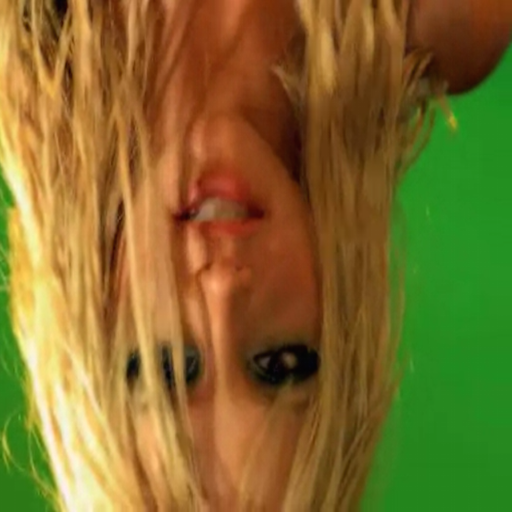
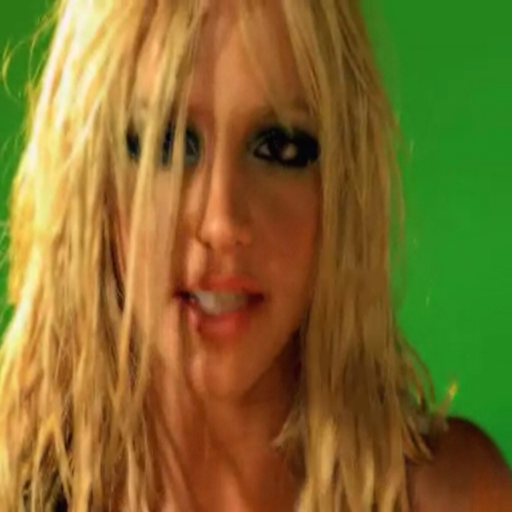
support new input options (filter, wrap, vflip and surge)

diff --git a/shadertoy/ShaderCanvasViewController.m b/shadertoy/ShaderCanvasViewController.m
@@ -50,7 +50,8 @@ const GLubyte Indices[] = {
     float *_channelTime;
     float *_channelResolution;
     GLKTextureInfo *_channelTextureInfo[4];
-    BOOL _channelTextureUseNearest[4];
+    ShaderInputFilterMode _channelTextureFilterMode[4];
+    ShaderInputWrapMode _channelTextureWrapMode[4];
     
     float _ifFragCoordScale;
     float _ifFragCoordOffsetXY[2];
@@ -197,8 +198,6 @@ const GLubyte Indices[] = {
     memset (_channelResolution,0,sizeof(float) * 12);
     
     memset (_channelTextureInfo,0,sizeof(GLKTextureInfo *) * 4);
-    memset (_channelTextureUseNearest,0,sizeof(BOOL) * 4);
-    
     memset (&_channelUniform[0],99,sizeof(GLuint) * 4);
 }
 
@@ -234,6 +233,33 @@ const GLubyte Indices[] = {
         NSString* channel = [NSString stringWithFormat:@"iChannel%@", input.channel];
         int c = MAX( MIN( (int)[input.channel integerValue], 3 ), 0);
         
+        ShaderInputFilterMode filterMode = MIPMAP;
+        ShaderInputWrapMode wrapMode = REPEAT;
+        BOOL srgb = NO;
+        BOOL vflip = NO;
+        
+        if( input.sampler ) {
+            if( [input.sampler.filter isEqualToString:@"nearest"] ) {
+                filterMode = NEAREST;
+            } else if( [input.sampler.filter isEqualToString:@"linear"] ) {
+                filterMode = LINEAR;
+            } else {
+                filterMode = MIPMAP;
+            }
+            
+            if( [input.sampler.wrap isEqualToString:@"clamp"] ) {
+                wrapMode = CLAMP;
+            } else {
+                wrapMode = REPEAT;
+            }
+            
+            srgb = [input.sampler.srgb isEqualToString:@"true"];
+            vflip = [input.sampler.vflip isEqualToString:@"true"];
+        }
+        
+        _channelTextureFilterMode[ c ] = filterMode;
+        _channelTextureWrapMode[ c ] = wrapMode;
+        
         if( [input.ctype isEqualToString:@"texture"] ) {
             // load texture to channel
             NSError *theError;
@@ -242,16 +268,15 @@ const GLubyte Indices[] = {
             file = [[[NSBundle mainBundle] resourcePath] stringByAppendingPathComponent:file];
             glGetError();
             
-            GLKTextureInfo *spriteTexture = [GLKTextureLoader textureWithContentsOfFile:file options:@{GLKTextureLoaderGenerateMipmaps: [NSNumber numberWithBool:YES]} error:&theError];
+            GLKTextureInfo *spriteTexture = [GLKTextureLoader textureWithContentsOfFile:file options:@{GLKTextureLoaderGenerateMipmaps: [NSNumber numberWithBool:(filterMode == MIPMAP)],
+                                                                                                       GLKTextureLoaderOriginBottomLeft: [NSNumber numberWithBool:vflip],
+                                                                                                       GLKTextureLoaderSRGB: [NSNumber numberWithBool:srgb]
+                                                                                                       } error:&theError];
             
             _channelUniform[ c ] = glGetUniformLocation(_programId, channel.UTF8String );
             _channelTextureInfo[ c ] = spriteTexture;
             _channelResolution[ c*3 ] = [spriteTexture width];
             _channelResolution[ c*3+1 ] = [spriteTexture height];
-            
-            if( [input.src containsString:@"tex14.png"] || [input.src containsString:@"tex15.png"] ) {
-                _channelTextureUseNearest[ c ] = YES;
-            }
         }
         if( [input.ctype isEqualToString:@"cubemap"] ) {
             // load texture to channel
@@ -261,10 +286,15 @@ const GLubyte Indices[] = {
             file = [[[NSBundle mainBundle] resourcePath] stringByAppendingPathComponent:file];
             glGetError();
             
-            GLKTextureInfo *spriteTexture = [GLKTextureLoader cubeMapWithContentsOfFile:file options:@{GLKTextureLoaderGenerateMipmaps: [NSNumber numberWithBool:YES]} error:&theError];
+            GLKTextureInfo *spriteTexture = [GLKTextureLoader cubeMapWithContentsOfFile:file options:@{GLKTextureLoaderGenerateMipmaps: [NSNumber numberWithBool:(filterMode == MIPMAP)],
+                                                                                                       GLKTextureLoaderOriginBottomLeft: [NSNumber numberWithBool:vflip],
+                                                                                                       GLKTextureLoaderSRGB: [NSNumber numberWithBool:srgb]
+                                                                                                       } error:&theError];
             
             _channelUniform[ c ] = glGetUniformLocation(_programId, channel.UTF8String );
             _channelTextureInfo[  c ] = spriteTexture;
+            _channelResolution[ c*3 ] = [spriteTexture width];
+            _channelResolution[ c*3+1 ] = [spriteTexture height];
         }
     }
 }
@@ -426,13 +456,23 @@ const GLubyte Indices[] = {
             glBindTexture(_channelTextureInfo[i].target, _channelTextureInfo[i].name );
             
             if( _channelTextureInfo[i].target == GL_TEXTURE_2D ) {
-                // texture 14 and 15 GL_NEAREST
-                glTexParameteri(GL_TEXTURE_2D, GL_TEXTURE_WRAP_S, GL_REPEAT);
-                glTexParameteri(GL_TEXTURE_2D, GL_TEXTURE_WRAP_T, GL_REPEAT);
+                if( _channelTextureWrapMode[i] == REPEAT ) {
+                    glTexParameteri(GL_TEXTURE_2D, GL_TEXTURE_WRAP_S, GL_REPEAT);
+                    glTexParameteri(GL_TEXTURE_2D, GL_TEXTURE_WRAP_T, GL_REPEAT);
+                } else {
+                    glTexParameteri(GL_TEXTURE_2D, GL_TEXTURE_WRAP_S, GL_CLAMP_TO_EDGE);
+                    glTexParameteri(GL_TEXTURE_2D, GL_TEXTURE_WRAP_T, GL_CLAMP_TO_EDGE);
+                }
                 
-                if( _channelTextureUseNearest[i] ) {
+                if( _channelTextureFilterMode[i] == NEAREST ) {
                     glTexParameteri(GL_TEXTURE_2D, GL_TEXTURE_MIN_FILTER, GL_NEAREST);
                     glTexParameteri(GL_TEXTURE_2D, GL_TEXTURE_MAG_FILTER, GL_NEAREST);
+                } else if( _channelTextureFilterMode[i] == MIPMAP ) {
+                    glTexParameteri(GL_TEXTURE_2D, GL_TEXTURE_MIN_FILTER, GL_LINEAR_MIPMAP_LINEAR);
+                    glTexParameteri(GL_TEXTURE_2D, GL_TEXTURE_MAG_FILTER, GL_LINEAR);
+                } else {
+                    glTexParameteri(GL_TEXTURE_2D, GL_TEXTURE_MIN_FILTER, GL_LINEAR);
+                    glTexParameteri(GL_TEXTURE_2D, GL_TEXTURE_MAG_FILTER, GL_LINEAR);
                 }
             }
         }

diff --git a/shadertoy/APIShaderObject.m b/shadertoy/APIShaderObject.m
@@ -8,13 +8,45 @@
 
 #import "APIShaderObject.h"
 
+
+@implementation APIShaderPassInputSampler : NSObject
+- (APIShaderPassInputSampler *) updateWithDict:(NSDictionary *) dict {
+    self.filter = [dict objectForKey:@"filter"];
+    self.wrap = [dict objectForKey:@"wrap"];
+    self.vflip = [dict objectForKey:@"vflip"];
+    self.srgb = [dict objectForKey:@"srgb"];
+    
+    return self;
+}
+- (void)encodeWithCoder:(NSCoder *)coder {
+    [coder encodeObject:self.filter forKey:@"filter"];
+    [coder encodeObject:self.wrap forKey:@"wrap"];
+    [coder encodeObject:self.vflip forKey:@"vflip"];
+    [coder encodeObject:self.srgb forKey:@"srgb"];
+}
+- (id)initWithCoder:(NSCoder *)coder {
+    self = [super init];
+    if (self != nil) {
+        self.filter = [coder decodeObjectForKey:@"filter"];
+        self.wrap = [coder decodeObjectForKey:@"wrap"];
+        self.vflip = [coder decodeObjectForKey:@"vflip"];
+        self.srgb = [coder decodeObjectForKey:@"srgb"];
+    }
+    return self;
+}
+@end
+
+
 @implementation APIShaderPassInput : NSObject
 - (APIShaderPassInput *) updateWithDict:(NSDictionary *) dict {
     self.inputId = [dict objectForKey:@"id"];
     self.src = [dict objectForKey:@"src"];
     self.ctype = [dict objectForKey:@"ctype"];
     self.channel = [dict objectForKey:@"channel"];
-    
+    NSDictionary* d = [dict objectForKey:@"sampler"];
+    if( d ) {  // backward compatibility
+        self.sampler = [[[APIShaderPassInputSampler alloc] init] updateWithDict:d];
+    }
     return self;
 }
 - (void)encodeWithCoder:(NSCoder *)coder {
@@ -22,6 +54,9 @@
     [coder encodeObject:self.src forKey:@"src"];
     [coder encodeObject:self.ctype forKey:@"ctype"];
     [coder encodeObject:self.channel forKey:@"channel"];
+    if( self.sampler ) {  // backward compatibility
+        [coder encodeObject:self.sampler forKey:@"sampler"];
+    }
 }
 - (id)initWithCoder:(NSCoder *)coder {
     self = [super init];
@@ -30,6 +65,9 @@
         self.src = [coder decodeObjectForKey:@"src"];
         self.ctype = [coder decodeObjectForKey:@"ctype"];
         self.channel = [coder decodeObjectForKey:@"channel"];
+        if( [coder containsValueForKey:@"sampler"] ) { // backward compatibility
+            self.sampler = [coder decodeObjectForKey:@"sampler"];
+        }
     }
     return self;
 }

diff --git a/shadertoy/APIShaderObject.h b/shadertoy/APIShaderObject.h
@@ -9,6 +9,19 @@
 #import <Foundation/Foundation.h>
 #import "AFNetworking.h"
 
+@interface APIShaderPassInputSampler : NSObject
+
+- (APIShaderPassInputSampler *) updateWithDict:(NSDictionary *) dict;
+- (void)encodeWithCoder:(NSCoder *)coder;
+- (id)initWithCoder:(NSCoder *)coder;
+
+@property (nonatomic, strong) NSString *filter;
+@property (nonatomic, strong) NSString *wrap;
+@property (nonatomic, strong) NSString *vflip;
+@property (nonatomic, strong) NSString *srgb;
+
+@end
+
 @interface APIShaderPassInput : NSObject
 
 - (APIShaderPassInput *) updateWithDict:(NSDictionary *) dict;
@@ -19,6 +32,7 @@
 @property (nonatomic, strong) NSString *src;
 @property (nonatomic, strong) NSString *ctype;
 @property (nonatomic, strong) NSNumber *channel;
+@property (nonatomic, strong) APIShaderPassInputSampler *sampler;
 
 @end
 

diff --git a/shadertoy/ShaderCanvasViewController.h b/shadertoy/ShaderCanvasViewController.h
@@ -9,6 +9,17 @@
 #import <GLKit/GLKit.h>
 #import "APIShaderObject.h"
 
+typedef NS_ENUM(NSUInteger, ShaderInputFilterMode) {
+    NEAREST,
+    MIPMAP,
+    LINEAR
+};
+
+typedef NS_ENUM(NSUInteger, ShaderInputWrapMode) {
+    CLAMP,
+    REPEAT
+};
+
 @interface ShaderCanvasViewController : GLKViewController
 
 - (BOOL) compileShaderPass:(APIShaderPass *)shader theError:(NSString **)error;
